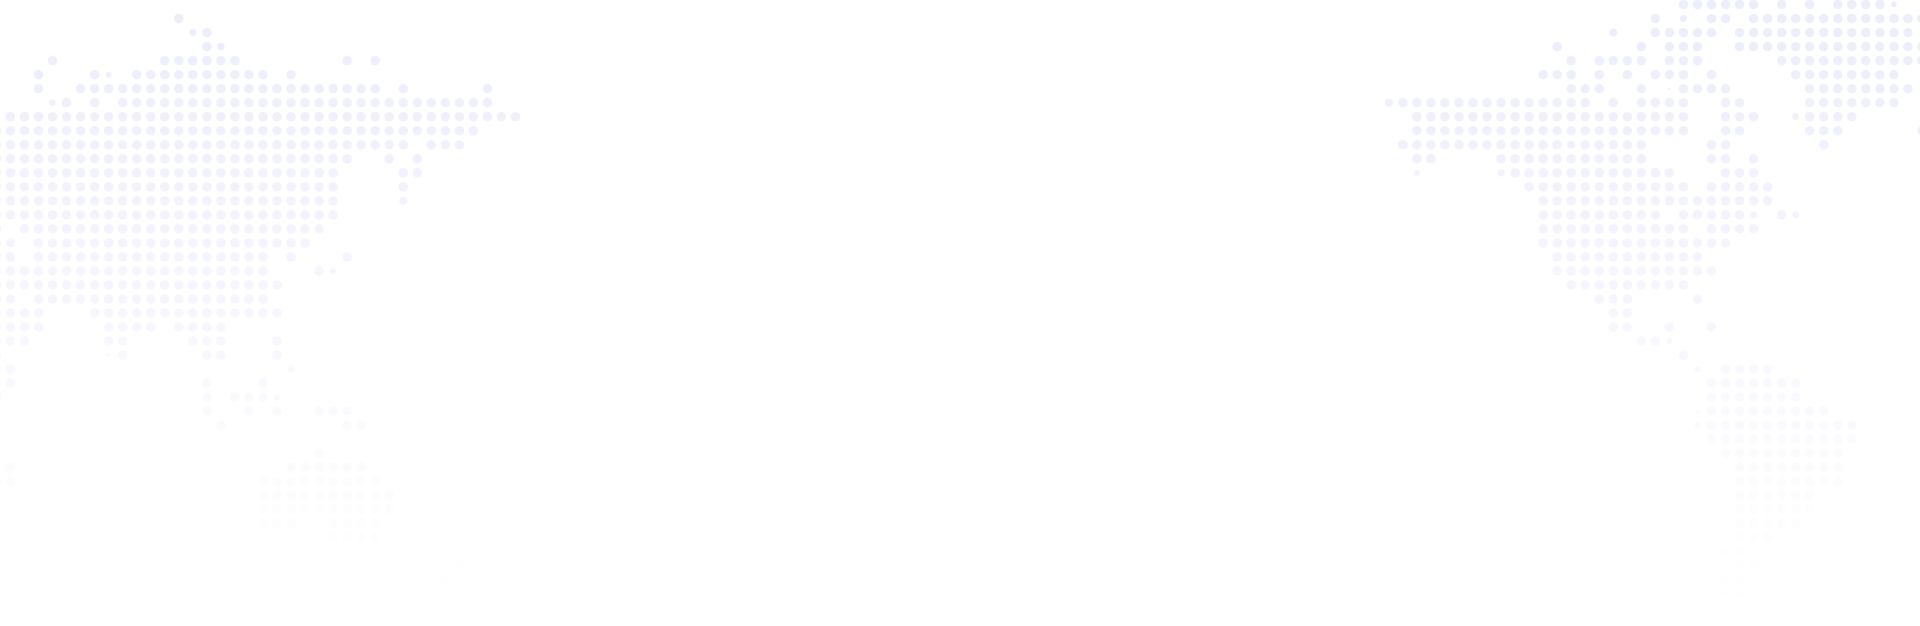
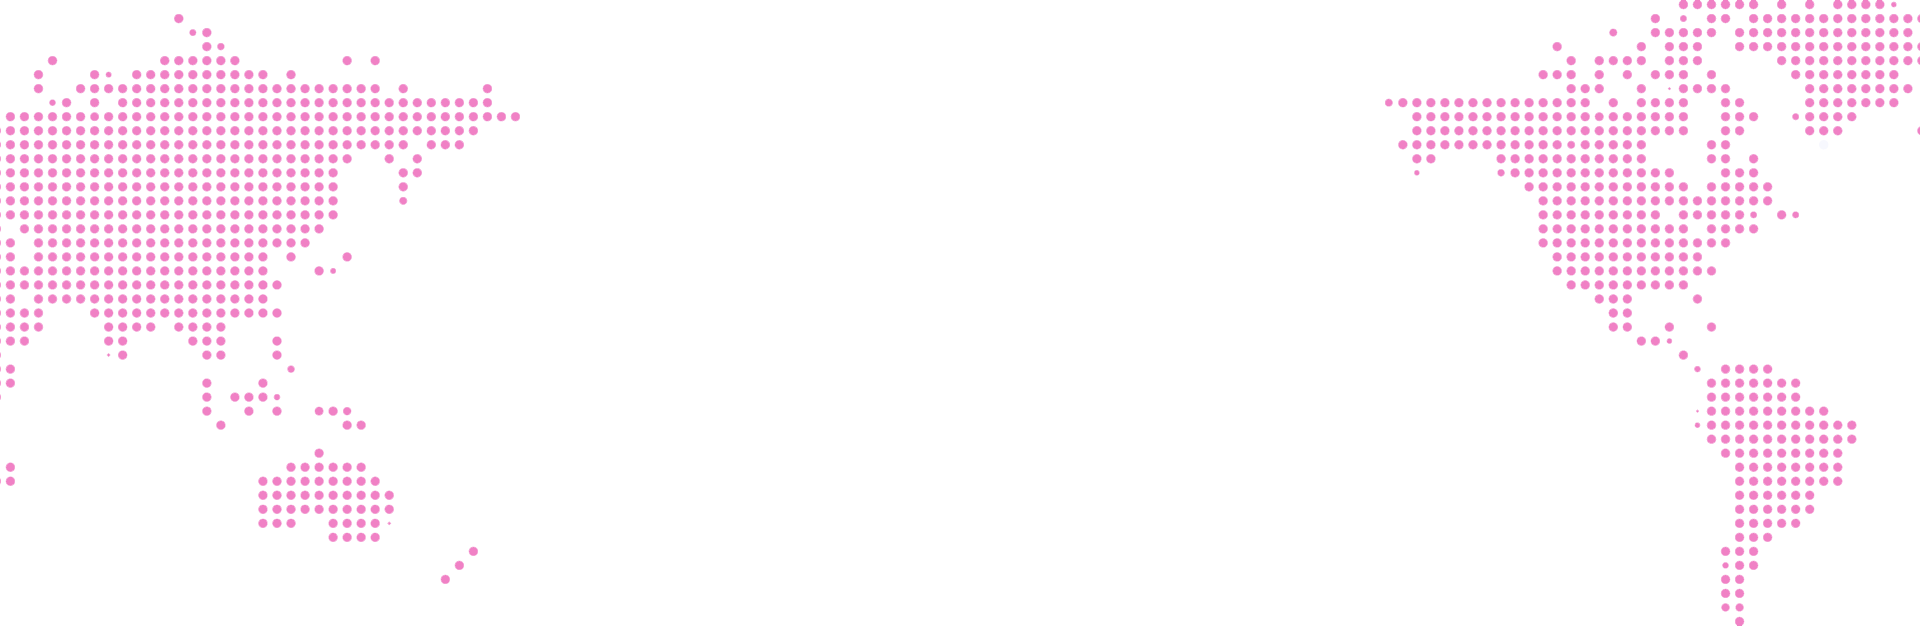
first pass home page done

diff --git a/index.html b/index.html
@@ -431,7 +431,7 @@
                 <div class="container">
                     <div class="row">
                         <div class="col-lg-6 wow fadeInUp" data-wow-duration="700ms" data-wow-delay="300ms">
-                            <h5 class="sectionTitle"><small>Meet The Team</small></h5>
+                            <h5 class="sectionTitle"><small>Meet The Founders</small></h5>
                             <h1 class="biggerHeading">
                                 Making your dream <span>a reality.</span>
                             </h1>
@@ -715,24 +715,81 @@
 
                         <div id="theGrid" class="main">
                             <section class="grid">
-                                <div class="col-lg-4 col-sm-4 wow fadeInUp" data-wow-duration="700ms" data-wow-delay="300ms">
+                              <div class="row">
+
+                                <div class="col-lg-3 col-sm-3 wow fadeInUp" data-wow-duration="700ms" data-wow-delay="300ms">
                                     <div class="grid__item singleBlog text-center">
-                                        <img class="logos" src="images/logos/bud-light-logo.jpg" alt="">
+                                        <img class="logos" src="images/logos/bud-light-logo.png" alt="">
                                         <div class="clearfix"></div>
                                     </div>
                                 </div>
-                                <div class="col-lg-4 col-sm-4 wow fadeInUp" data-wow-duration="700ms" data-wow-delay="350ms">
+                                <div class="col-lg-3 col-sm-3 wow fadeInUp" data-wow-duration="700ms" data-wow-delay="350ms">
                                     <div class="grid__item singleBlog text-center">
-                                        <img class="logos" src="images/logos/Budweiser Logo.jpg" alt="">
+                                        <img class="logos" src="images/logos/Budweiser Logo.png" alt="">
                                         <div class="clearfix"></div>
                                     </div>
                                 </div>
-                                <div class="col-lg-4 col-sm-4 wow fadeInUp" data-wow-duration="700ms" data-wow-delay="400ms">
+                                <div class="col-lg-3 col-sm-3 wow fadeInUp" data-wow-duration="700ms" data-wow-delay="400ms">
                                     <div class="grid__item singleBlog text-center">
-                                        <img class="logos" src="images/logos/houston-press.jpg" alt="">
+                                        <img class="logos" src="images/logos/houston-press.png" alt="">
                                         <div class="clearfix"></div>
                                     </div>
                                 </div>
+                                <div class="col-lg-3 col-sm-3 wow fadeInUp" data-wow-duration="700ms" data-wow-delay="400ms">
+                                    <div class="grid__item singleBlog text-center">
+                                        <img class="logos" src="images/logos/LeanCuisine_Color.png" alt="">
+                                        <div class="clearfix"></div>
+                                    </div>
+                                </div>
+                              </div>
+                              <div class="row">
+
+                                <div class="col-lg-3 col-sm-3 wow fadeInUp" data-wow-duration="700ms" data-wow-delay="400ms">
+                                    <div class="grid__item singleBlog text-center">
+                                        <img class="logos" src="images/logos/lime-a rita.png" alt="">
+                                        <div class="clearfix"></div>
+                                    </div>
+                                </div>
+                                <div class="col-lg-3 col-sm-3 wow fadeInUp" data-wow-duration="700ms" data-wow-delay="400ms">
+                                    <div class="grid__item singleBlog text-center">
+                                        <img class="logos" src="images/logos/logo-home.png" alt="">
+                                        <div class="clearfix"></div>
+                                    </div>
+                                </div>
+                                <div class="col-lg-3 col-sm-3 wow fadeInUp" data-wow-duration="700ms" data-wow-delay="400ms">
+                                    <div class="grid__item singleBlog text-center">
+                                        <img class="logos" src="images/logos/logo-malibu-big.png" alt="">
+                                        <div class="clearfix"></div>
+                                    </div>
+                                </div>
+                                <div class="col-lg-3 col-sm-3 wow fadeInUp" data-wow-duration="700ms" data-wow-delay="400ms">
+                                    <div class="grid__item singleBlog text-center">
+                                        <img class="logos" src="images/logos/smithfield-farmland.png" alt="">
+                                        <div class="clearfix"></div>
+                                    </div>
+                                </div>
+                              </div>
+                              <div class="row">
+
+                                <div class="col-lg-3 col-sm-3 wow fadeInUp" data-wow-duration="700ms" data-wow-delay="400ms">
+                                    <div class="grid__item singleBlog text-center">
+                                        <img class="logos" src="images/logos/Smithfield.png" alt="">
+                                        <div class="clearfix"></div>
+                                    </div>
+                                </div>
+                                <div class="col-lg-3 col-sm-3 wow fadeInUp" data-wow-duration="700ms" data-wow-delay="400ms">
+                                    <div class="grid__item singleBlog text-center">
+                                        <img class="logos" src="images/logos/Tabasco_Logo.png" alt="">
+                                        <div class="clearfix"></div>
+                                    </div>
+                                </div>
+                                <div class="col-lg-3 col-sm-3 wow fadeInUp" data-wow-duration="700ms" data-wow-delay="400ms">
+                                    <div class="grid__item singleBlog text-center">
+                                        <img class="logos" src="images/logos/UnderArmour-Logo.png" alt="">
+                                        <div class="clearfix"></div>
+                                    </div>
+                                </div>
+                              </div>
                             </section>
                         </div>
                     </div>
@@ -742,13 +799,8 @@
                 <div class="container">
                     <div class="row">
                         <div class="col-lg-8 col-lg-offset-2 text-center">
-                            <h5 class="sectionTitle white"><small>Stay upto date, join our newsletter</small></h5>
-                            <form id="subscriptionsforms" method="post" action="#" class="subscribeForm">
-                                <input id="sub_email" type="email" name="subs" placeholder="ENTER YOUR EMAIL."/>
-                                <button id="subs_submit" type="submit">Lets Talk</button>
-                                <div class="clearfix"></div>
-                                <p>We do not share your information with anyone.</p>
-                            </form>
+                            <h5 class="sectionTitle white"><small>Request a proposal</small></h5>
+                            <p class="white">Have an upcoming event that you don't have time or contacts to produce? Wish you had one point person that understands your needs to make things happen? Need creative input that will throw your event over the top? Complete the form below and "consider it handled." A ZAHZI Insider will be with you shortly.</p>
                         </div>
                     </div>
                 </div>
@@ -765,15 +817,15 @@
                         <div class="col-lg-4 conInfos">
                             <div class="sconInfo wow fadeInUp" data-wow-duration="700ms" data-wow-delay="300ms">
                                 <h5><i class="fa fa-phone"></i>Call Us At</h5>
-                                <p>1.800.321.4567-8</p>
+                                <p>646.397.2394</p>
                             </div>
                             <div class="sconInfo wow fadeInUp" data-wow-duration="700ms" data-wow-delay="300ms">
                                 <h5><i class="fa fa-envelope-o"></i>Mail Us At</h5>
-                                <p>support@dotsquare.com</p>
+                                <p>davya@zahzievents.com</p>
                             </div>
                             <div class="sconInfo noMarginBottom wow fadeInUp" data-wow-duration="700ms" data-wow-delay="300ms">
-                                <h5><i class="fa fa-map-marker"></i>Visit Us At</h5>
-                                <p>Some street, New York, USA</p>
+                                <h5><i class="fa fa-map-marker"></i>Offices in</h5>
+                                <p>New York | Los Angeles <br> Dallas | Chicago</p>
                             </div>
                         </div>
                         <div class="col-lg-8">
@@ -808,7 +860,7 @@
                     <div class="row">
                         <div class="col-lg-9">
                             <div class="copyRight wow zoomIn" data-wow-duration="700ms" data-wow-delay="300ms">
-                                &copy; Stellar. All Rights Reserved.<span>|</span>Theme designed by Nasirwd.<span>|</span>nasfactor.com
+                                &copy; Zahzi. All Rights Reserved.
                             </div>
                         </div>
                         <div class="col-lg-3">

diff --git a/css/style.css b/css/style.css
@@ -431,7 +431,8 @@ body.menuOpened .sideMenuArea{
     width: 100%;
     height: auto;
     position: relative;
-    background: url(../images/slide/3.jpg) no-repeat top center;
+    background: url(../images/slide/bg.jpg) no-repeat top center;
+    background-size: cover;
 }
 .banners:after{
     content: "";
@@ -1623,6 +1624,7 @@ body.menuOpened .sideMenuArea{
 .stellarButton:hover{
     background: rgb(225,3,139);
     color: #FFF;
+    border: 1px solid #fff;
 }
 .black.callToActionContent h5, .callToActionContent h3{
     color: #000;
@@ -1713,7 +1715,7 @@ body.menuOpened .sideMenuArea{
 .teamDetails{
     width: 222px;
     height: 101px;
-    background: #2c3da7;
+    background: rgb(225,3,139);
     position: absolute;
     left: 0;
     right: 0;
@@ -1786,7 +1788,7 @@ body.menuOpened .sideMenuArea{
 }
 .thead a{
     font-size: 18px;
-    color: #2c3da7;
+    color: rgb(225,3,139);
     font-weight: 600;
     text-transform: capitalize;
     line-height: .8;
@@ -1838,7 +1840,7 @@ body.menuOpened .sideMenuArea{
 }
 .twitterFeedsa .carousel-indicators li.active{
     background: #FFF;
-    border-color: #2c3da7;
+    border-color: rgb(225,3,139);
 }
 .teamCalltoaction{
     margin-top: 70px;
@@ -2292,7 +2294,6 @@ body.menuOpened .sideMenuArea{
     margin-bottom: 105px;
 }
 .singleBlog{
-    background: #FFF;
     padding: 0 30px 20px;
 }
 .sbHeader{
@@ -2312,7 +2313,7 @@ body.menuOpened .sideMenuArea{
     line-height: 45px;
 }
 .singleBlog h1 a:hover{
-    color: #2c3da7;
+    color: rgb(225,3,139);
 }
 .sbMeta{
     position: relative;
@@ -2320,13 +2321,13 @@ body.menuOpened .sideMenuArea{
 }
 
 .sbCats{
-    color: #2c3da7;
+    color: rgb(225,3,139);
     padding-top: 24px;
     line-height: .8;
     padding-bottom: 26px;
 }
 .sbCats a{
-    color: #2c3da7;
+    color: rgb(225,3,139);
     font-size: 13px;
     text-transform: uppercase;
     font-weight: 400;
@@ -2361,7 +2362,7 @@ body.menuOpened .sideMenuArea{
     position: relative;
 }
 .sbFooter a:hover{
-    color: #2c3da7;
+    color: rgb(225,3,139);
 }
 .sbFooter a i{
     bottom: -2px;
@@ -2418,7 +2419,7 @@ body.menuOpened .sideMenuArea{
     line-height: 35px;
 }
 .singleBlog2 h1 a:hover{
-    color: #2c3da7;
+    color: rgb(225,3,139);
 }
 .singleBlog2 .sbCats{
     color: #b89841;
@@ -2479,7 +2480,7 @@ body.menuOpened .sideMenuArea{
     line-height: 35px;
 }
 .singleBlog3 h1 a:hover{
-    color: #2c3da7;
+    color: rgb(225,3,139);
 }
 .singleBlog3 .sbCats{
     color: #b89841;
@@ -2537,9 +2538,10 @@ body.menuOpened .sideMenuArea{
     z-index: 2;
 }
 .subscribeSection:after{
-    background: rgba(0, 0, 0, 0) url("../images/bg/15.jpg") no-repeat scroll center center;
+    background: rgba(0, 0, 0, 0) url("../images/bg/contact2.jpg") no-repeat scroll center center;
     content: "";
     height: 100%;
+
     left: 0;
     position: absolute;
     top: 0;
@@ -2599,7 +2601,7 @@ body.menuOpened .sideMenuArea{
     -o-transition: all ease 500ms;
 }
 .subscribeForm button:hover{
-    background: #2c3da7;
+    background: rgb(225,3,139);
     color: #FFF;
 }
 .subscribeForm p{
@@ -2801,7 +2803,7 @@ button.submita{
     -o-transition: all ease 400ms;
 }
 button.submita:hover{
-    background: #2c3da7;
+    background: rgb(225,3,139);
     color: #fff;
 }
 .conInfos{
@@ -4152,7 +4154,7 @@ button.submita:hover{
 
 #backToTop{
     position: fixed;
-    right: 50px;
+    right: 25px;
     bottom: 40px;
     background: #000 none repeat scroll 0 0;
     border-radius: 50%;
@@ -4175,7 +4177,7 @@ button.submita:hover{
     visibility: visible;
 }
 #backToTop:hover{
-    background: #2c3da7;
+    background: rgb(225,3,139);
 }
 
 
@@ -4433,6 +4435,7 @@ button.submita:hover{
 }
 
 .logos {
-  max-height: 40px;
+  max-height: 80px;
+  max-width: 100%;
   width: auto;
 }

diff --git a/css/blogpopup.css b/css/blogpopup.css
@@ -40,7 +40,6 @@
 
 /* Grid item */
 .grid__item {
-    background: #fff none repeat scroll 0 0;
     cursor: pointer;
     display: inline-block;
     position: relative;
@@ -497,7 +496,7 @@
         margin-left: 0;
     }
 
-    
+
 }
 @media screen and (min-width: 900px) {
     .grid {
@@ -511,7 +510,7 @@
 
 /* small screen changes for sidebar (it becomes an off-canvas menu) */
 @media screen and (max-width: 599px) {
-    
+
     .content .close-button {
         padding: 10px 20px;
     }
